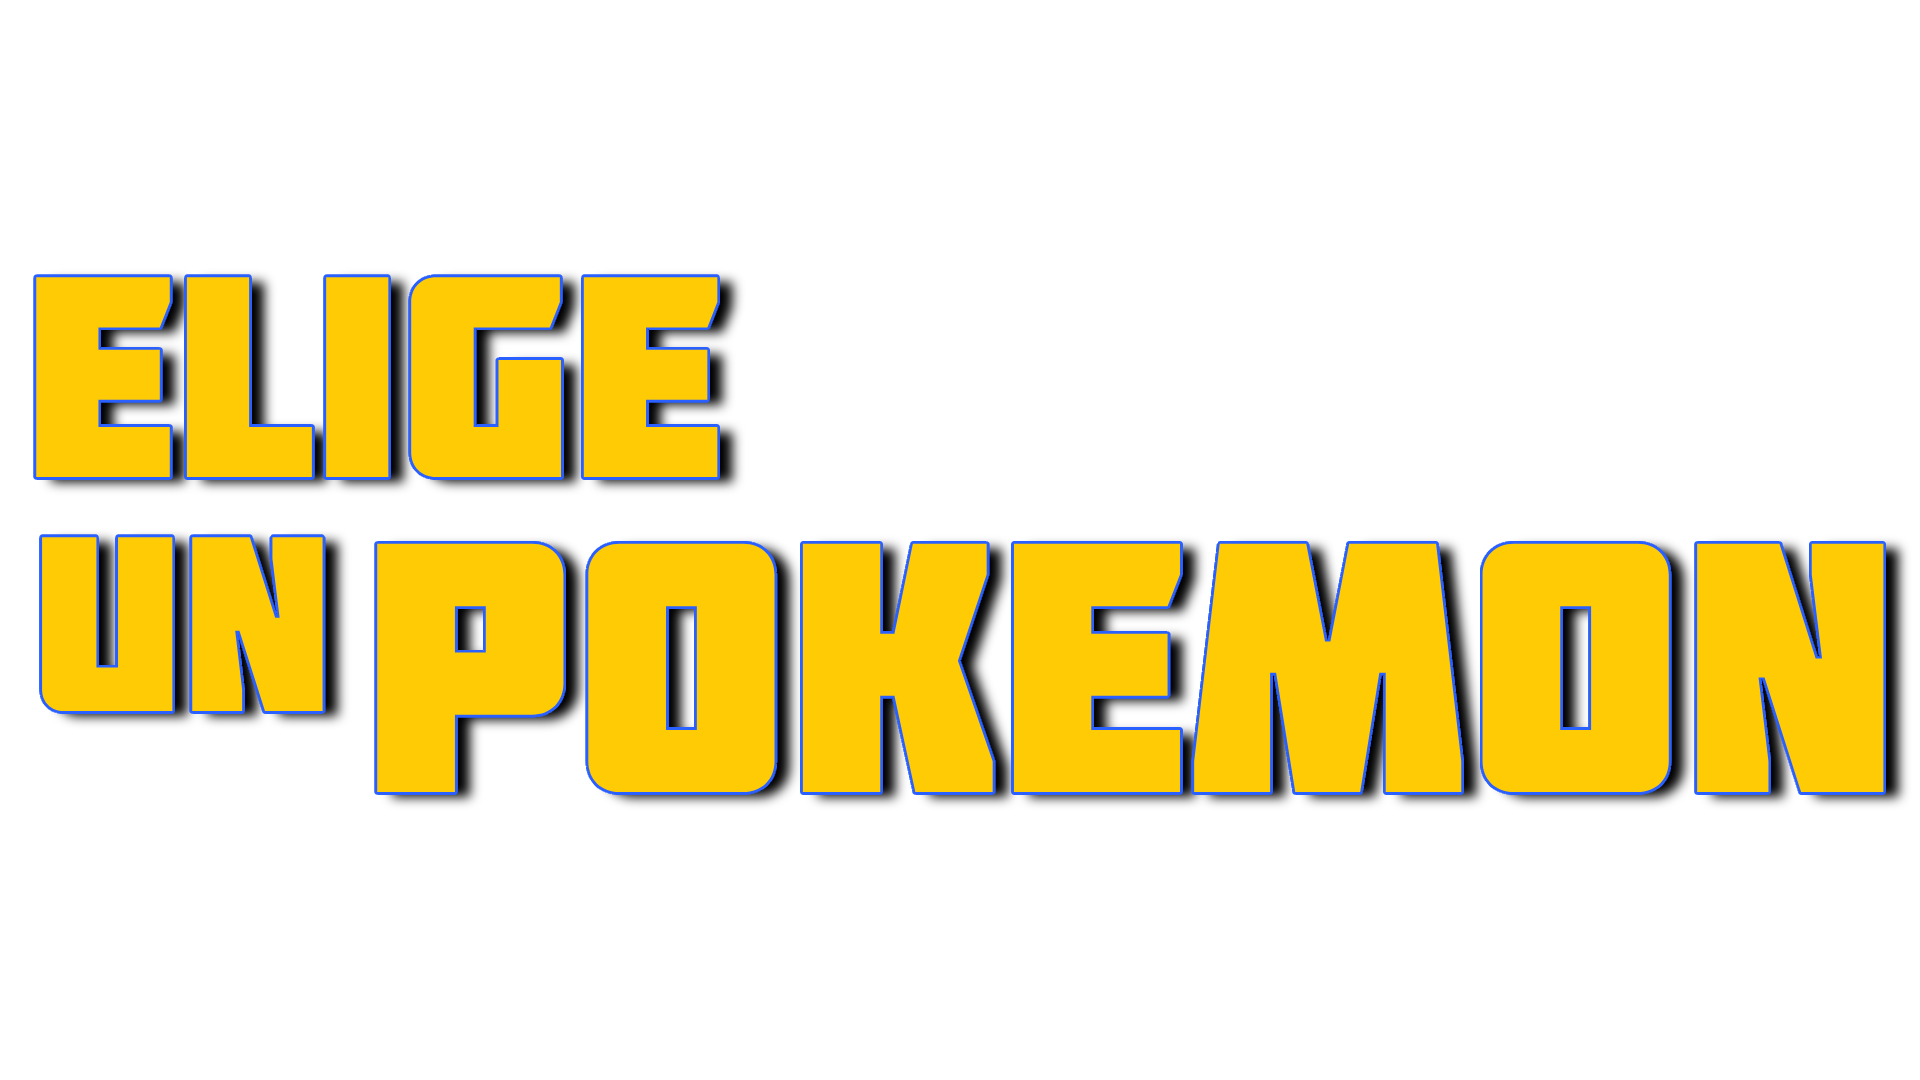
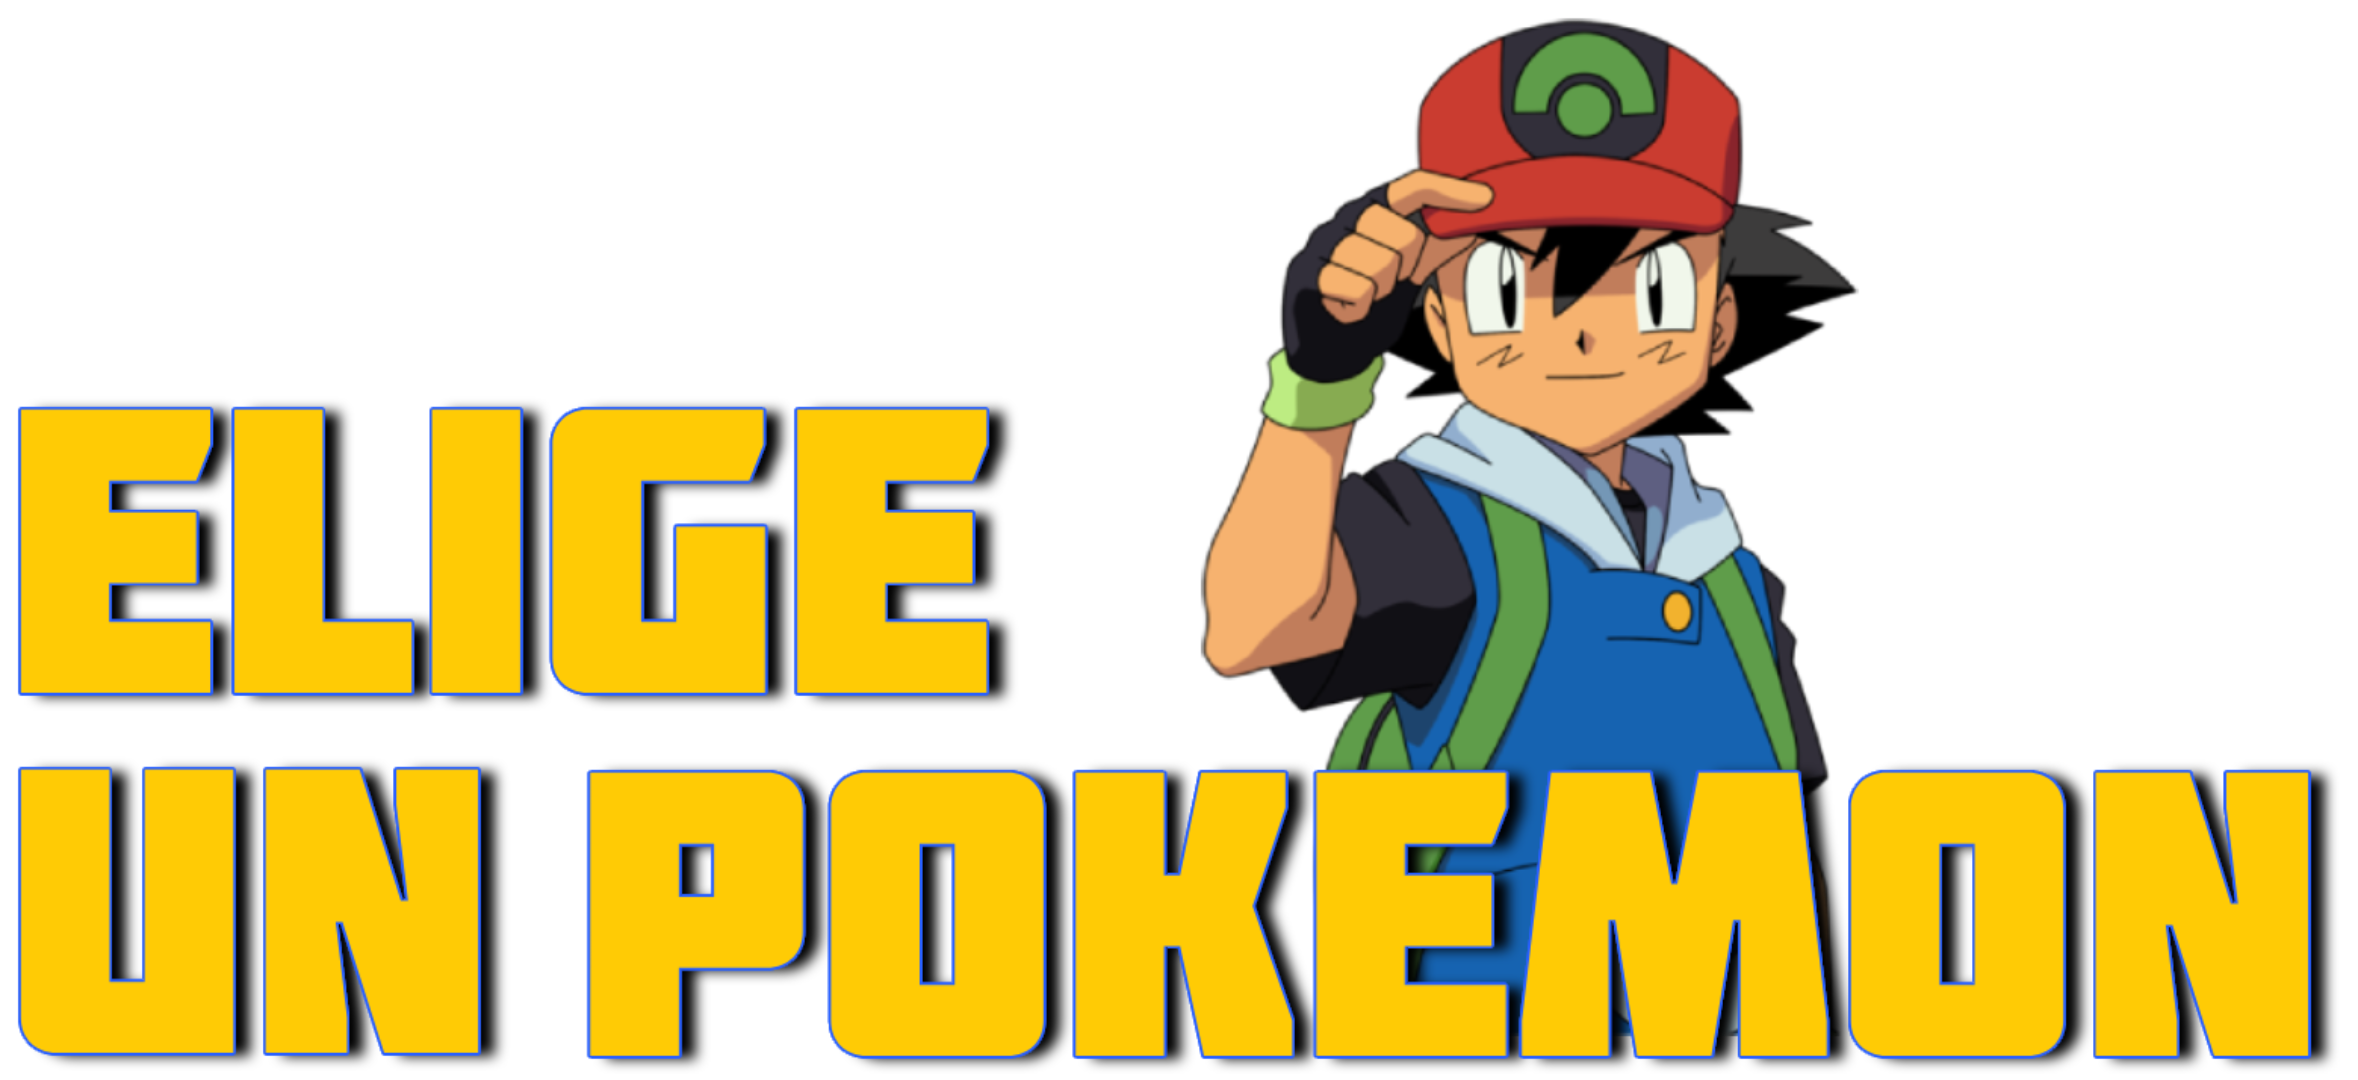
Nuevas imagenes añadidas

diff --git a/src/main/resources/Avatar.css b/src/main/resources/Avatar.css
@@ -4,6 +4,12 @@
     -fx-text-fill: white;
 }
 
+#txtView {
+    -fx-translate-x: 150px;
+    -fx-translate-y: -50px;
+    -fx-effect: dropshadow(gaussian, rgba(49,100,158,0.7), 4, 0, 7.5, 4);
+}
+
 #back {
     -fx-background-color: transparent;
     -fx-translate-x: -50px; /* izquierda-derecha */
@@ -30,8 +36,8 @@
 
 #opcion1 {
     -fx-background-color: transparent;
-    -fx-translate-x: 320px;
-    -fx-translate-y: 110px;
+    -fx-translate-x: -30px;
+    -fx-translate-y: 250px;
     -fx-min-width: 230px;
     -fx-min-height: 130px;
     -fx-background-image: url('img/botones/selector-fondo.png');
@@ -43,7 +49,7 @@
 
 #opcion2 {
     -fx-background-color: transparent;
-    -fx-translate-x: 259px;
+    -fx-translate-x: 130px;
     -fx-translate-y: 110px;
     -fx-min-width: 230px;
     -fx-min-height: 130px;
@@ -56,7 +62,7 @@
 
 #opcion3 {
     -fx-background-color: transparent;
-    -fx-translate-x: 202px;
+    -fx-translate-x: 502px;
     -fx-translate-y: 110px;
     -fx-min-width: 230px;
     -fx-min-height: 130px;
@@ -69,7 +75,7 @@
 
 #opcion4 {
     -fx-background-color: transparent;
-    -fx-translate-x: 140px;
+    -fx-translate-x: 540px;
     -fx-translate-y: 110px;
     -fx-min-width: 230px;
     -fx-min-height: 130px;
@@ -82,7 +88,7 @@
 
 #opcion5 {
     -fx-background-color: transparent;
-    -fx-translate-x: 70px;
+    -fx-translate-x: 570px;
     -fx-translate-y: 110px;
     -fx-min-width: 230px;
     -fx-min-height: 130px;
@@ -94,7 +100,7 @@
 
 #opcion6 {
     -fx-background-color: transparent;
-    -fx-translate-x: 0px;
+    -fx-translate-x: 870px;
     -fx-translate-y: 110px;
     -fx-min-width: 230px;
     -fx-min-height: 130px;
@@ -105,7 +111,7 @@
 }
 
 #foto1 {
-    -fx-translate-x: 0px;
+    -fx-translate-x: 50px;
     -fx-translate-y: 0px;
     -fx-max-width: 50px;
     -fx-max-height: 50px;
@@ -142,6 +148,7 @@
     -fx-max-width: 50px;
     -fx-max-height: 50px;
 }
+
 
 .button:hover {
     -fx-effect: dropshadow(gaussian, rgba(0,0,0,0.6), 0, 1, 3, 5);

diff --git a/src/main/resources/Selector.css b/src/main/resources/Selector.css
@@ -82,7 +82,7 @@
     -fx-background-position: center;
 }
 
-#lectorTxt {
+#selectorTxt {
     -fx-translate-x: 0px;
     -fx-translate-y: -140px;
     -fx-effect: dropshadow(gaussian, rgba(49,100,158,0.7), 4, 0, 7.5, 4);

diff --git a/src/main/java/Pokemon/Menus/Avatar.java b/src/main/java/Pokemon/Menus/Avatar.java
@@ -17,6 +17,8 @@ import javafx.scene.media.MediaPlayer;
 import javafx.scene.media.MediaView;
 import javafx.stage.Stage;
 
+import java.util.Objects;
+
 public class Avatar extends Application {
 
     private static final int WINDOW_WIDTH = 1080;
@@ -50,9 +52,13 @@ public class Avatar extends Application {
         container.setPadding(new Insets(10));
         container.setAlignment(Pos.CENTER);
 
-        HBox avatarContainer = new HBox(10);
-        avatarContainer.setAlignment(Pos.CENTER);
+        Image avatarTxt = new Image(Objects.requireNonNull(getClass().getResourceAsStream("/img/avatar.png")));
+        ImageView avatarView = new ImageView(avatarTxt);
+        avatarView.setFitWidth(750);
+        avatarView.setFitHeight(350);
+        avatarView.setId("txtView");
 
+        Pane avatarContainer = new Pane();
         Image image1 = new Image(getClass().getResourceAsStream("/img/entrenador1.gif"));
         Image image2 = new Image(getClass().getResourceAsStream("/img/entrenador2.gif"));
         Image image3 = new Image(getClass().getResourceAsStream("/img/alonso.png"));
@@ -63,39 +69,36 @@ public class Avatar extends Application {
         ImageView imageView1 = new ImageView(image1);
         imageView1.setFitWidth(50);
         imageView1.setFitHeight(50);
-
+        imageView1.setId("foto1");
 
         ImageView imageView2 = new ImageView(image2);
         imageView2.setFitWidth(50);
         imageView2.setFitHeight(50);
+        imageView2.setId("foto2");
 
 
         ImageView imageView3 = new ImageView(image3);
         imageView3.setFitWidth(50);
         imageView3.setFitHeight(50);
+        imageView3.setId("foto3");
 
 
         ImageView imageView4 = new ImageView(image4);
         imageView4.setFitWidth(50);
         imageView4.setFitHeight(50);
+        imageView4.setId("foto4");
 
 
         ImageView imageView5 = new ImageView(image5);
         imageView5.setFitWidth(50);
         imageView5.setFitHeight(50);
+        imageView5.setId("foto5");
 
 
         ImageView imageView6 = new ImageView(image6);
         imageView6.setFitWidth(50);
         imageView6.setFitHeight(50);
-
-        HBox.setMargin(imageView1, new Insets(0, 0, 0, -300));
-        HBox.setMargin(imageView2, new Insets(0, 0, 0, 50));
-        HBox.setMargin(imageView3, new Insets(0, 0, 0, 50));
-        HBox.setMargin(imageView4, new Insets(0, 0, 0, 50));
-        HBox.setMargin(imageView5, new Insets(0, 0, 0, 50));
-        HBox.setMargin(imageView6, new Insets(0, 0, 0, 50));
-
+        imageView6.setId("imageView2");
 
         Button opcion1 = new Button();
         opcion1.setId("opcion1");
@@ -147,7 +150,7 @@ public class Avatar extends Application {
         });
 
         avatarContainer.getChildren().addAll(opcion1, opcion2, opcion3, opcion4, opcion5, opcion6,
-                imageView1, imageView2, imageView3, imageView4, imageView5, imageView6);
+                imageView1, imageView2, imageView3, imageView4, imageView5, imageView6, avatarView);
 
         Button aceptar = new Button();
         aceptar.setId("aceptar");

diff --git a/src/main/java/Pokemon/Combate/Selector.java b/src/main/java/Pokemon/Combate/Selector.java
@@ -99,10 +99,10 @@ public class Selector extends Application {
         audioMediaPlayer.setCycleCount(MediaPlayer.INDEFINITE);
 
         Image selectorTxt = new Image(Objects.requireNonNull(getClass().getResourceAsStream("/img/selector.png")));
-        ImageView lectorView = new ImageView(selectorTxt);
-        lectorView.setFitWidth(920);
-        lectorView.setFitHeight(460);
-        lectorView.setId("lectorTxt");
+        ImageView selectorView = new ImageView(selectorTxt);
+        selectorView.setFitWidth(920);
+        selectorView.setFitHeight(460);
+        selectorView.setId("selectorTxt");
 
         Button opcion1 = new Button();
         opcion1.setId("opcion1");
@@ -192,7 +192,7 @@ public class Selector extends Application {
 //        root.getChildren().addAll(videoView, barraView,combateButton, capturarButton, entrenadorButton, pokedexButton, tiendaButton, muteButton);
         root.getChildren().
 
-                addAll(videoView, lectorView, opcion1, opcion2, opcion3, opcion4, opcion5, opcion6, pokemon1View,
+                addAll(videoView, selectorView, opcion1, opcion2, opcion3, opcion4, opcion5, opcion6, pokemon1View,
                         pokemon2View, pokemon3View, pokemon4View, pokemon5View, pokemon6View);
 
         root.setAlignment(Pos.CENTER);
